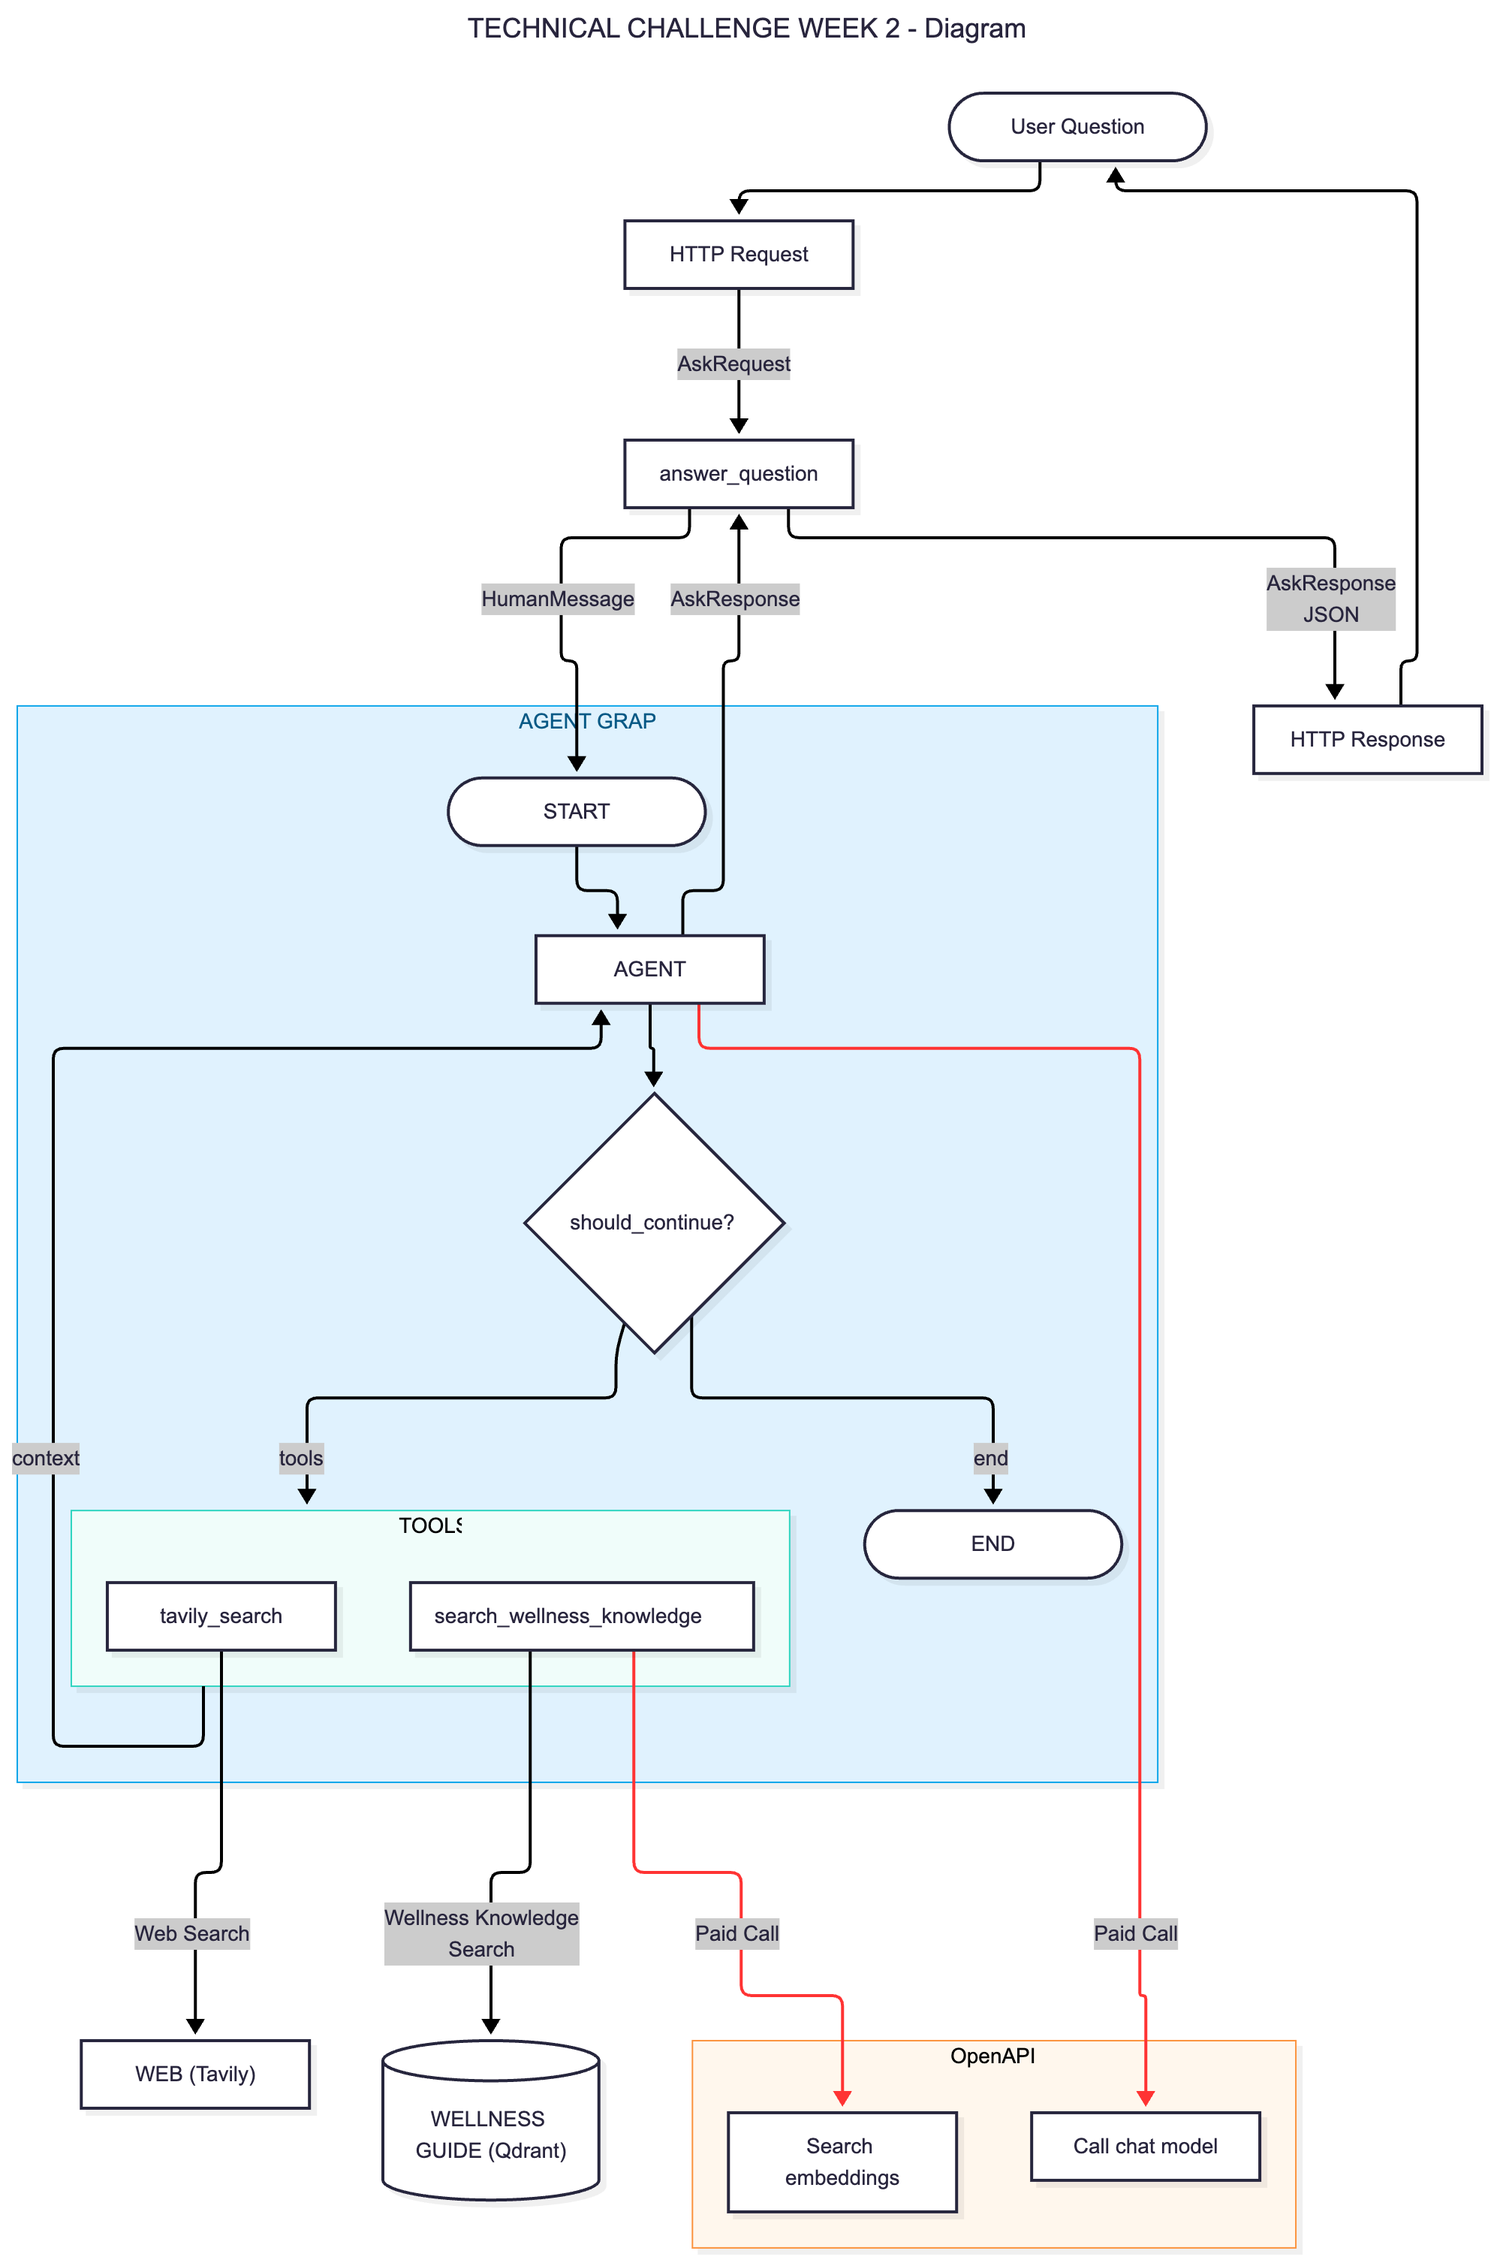
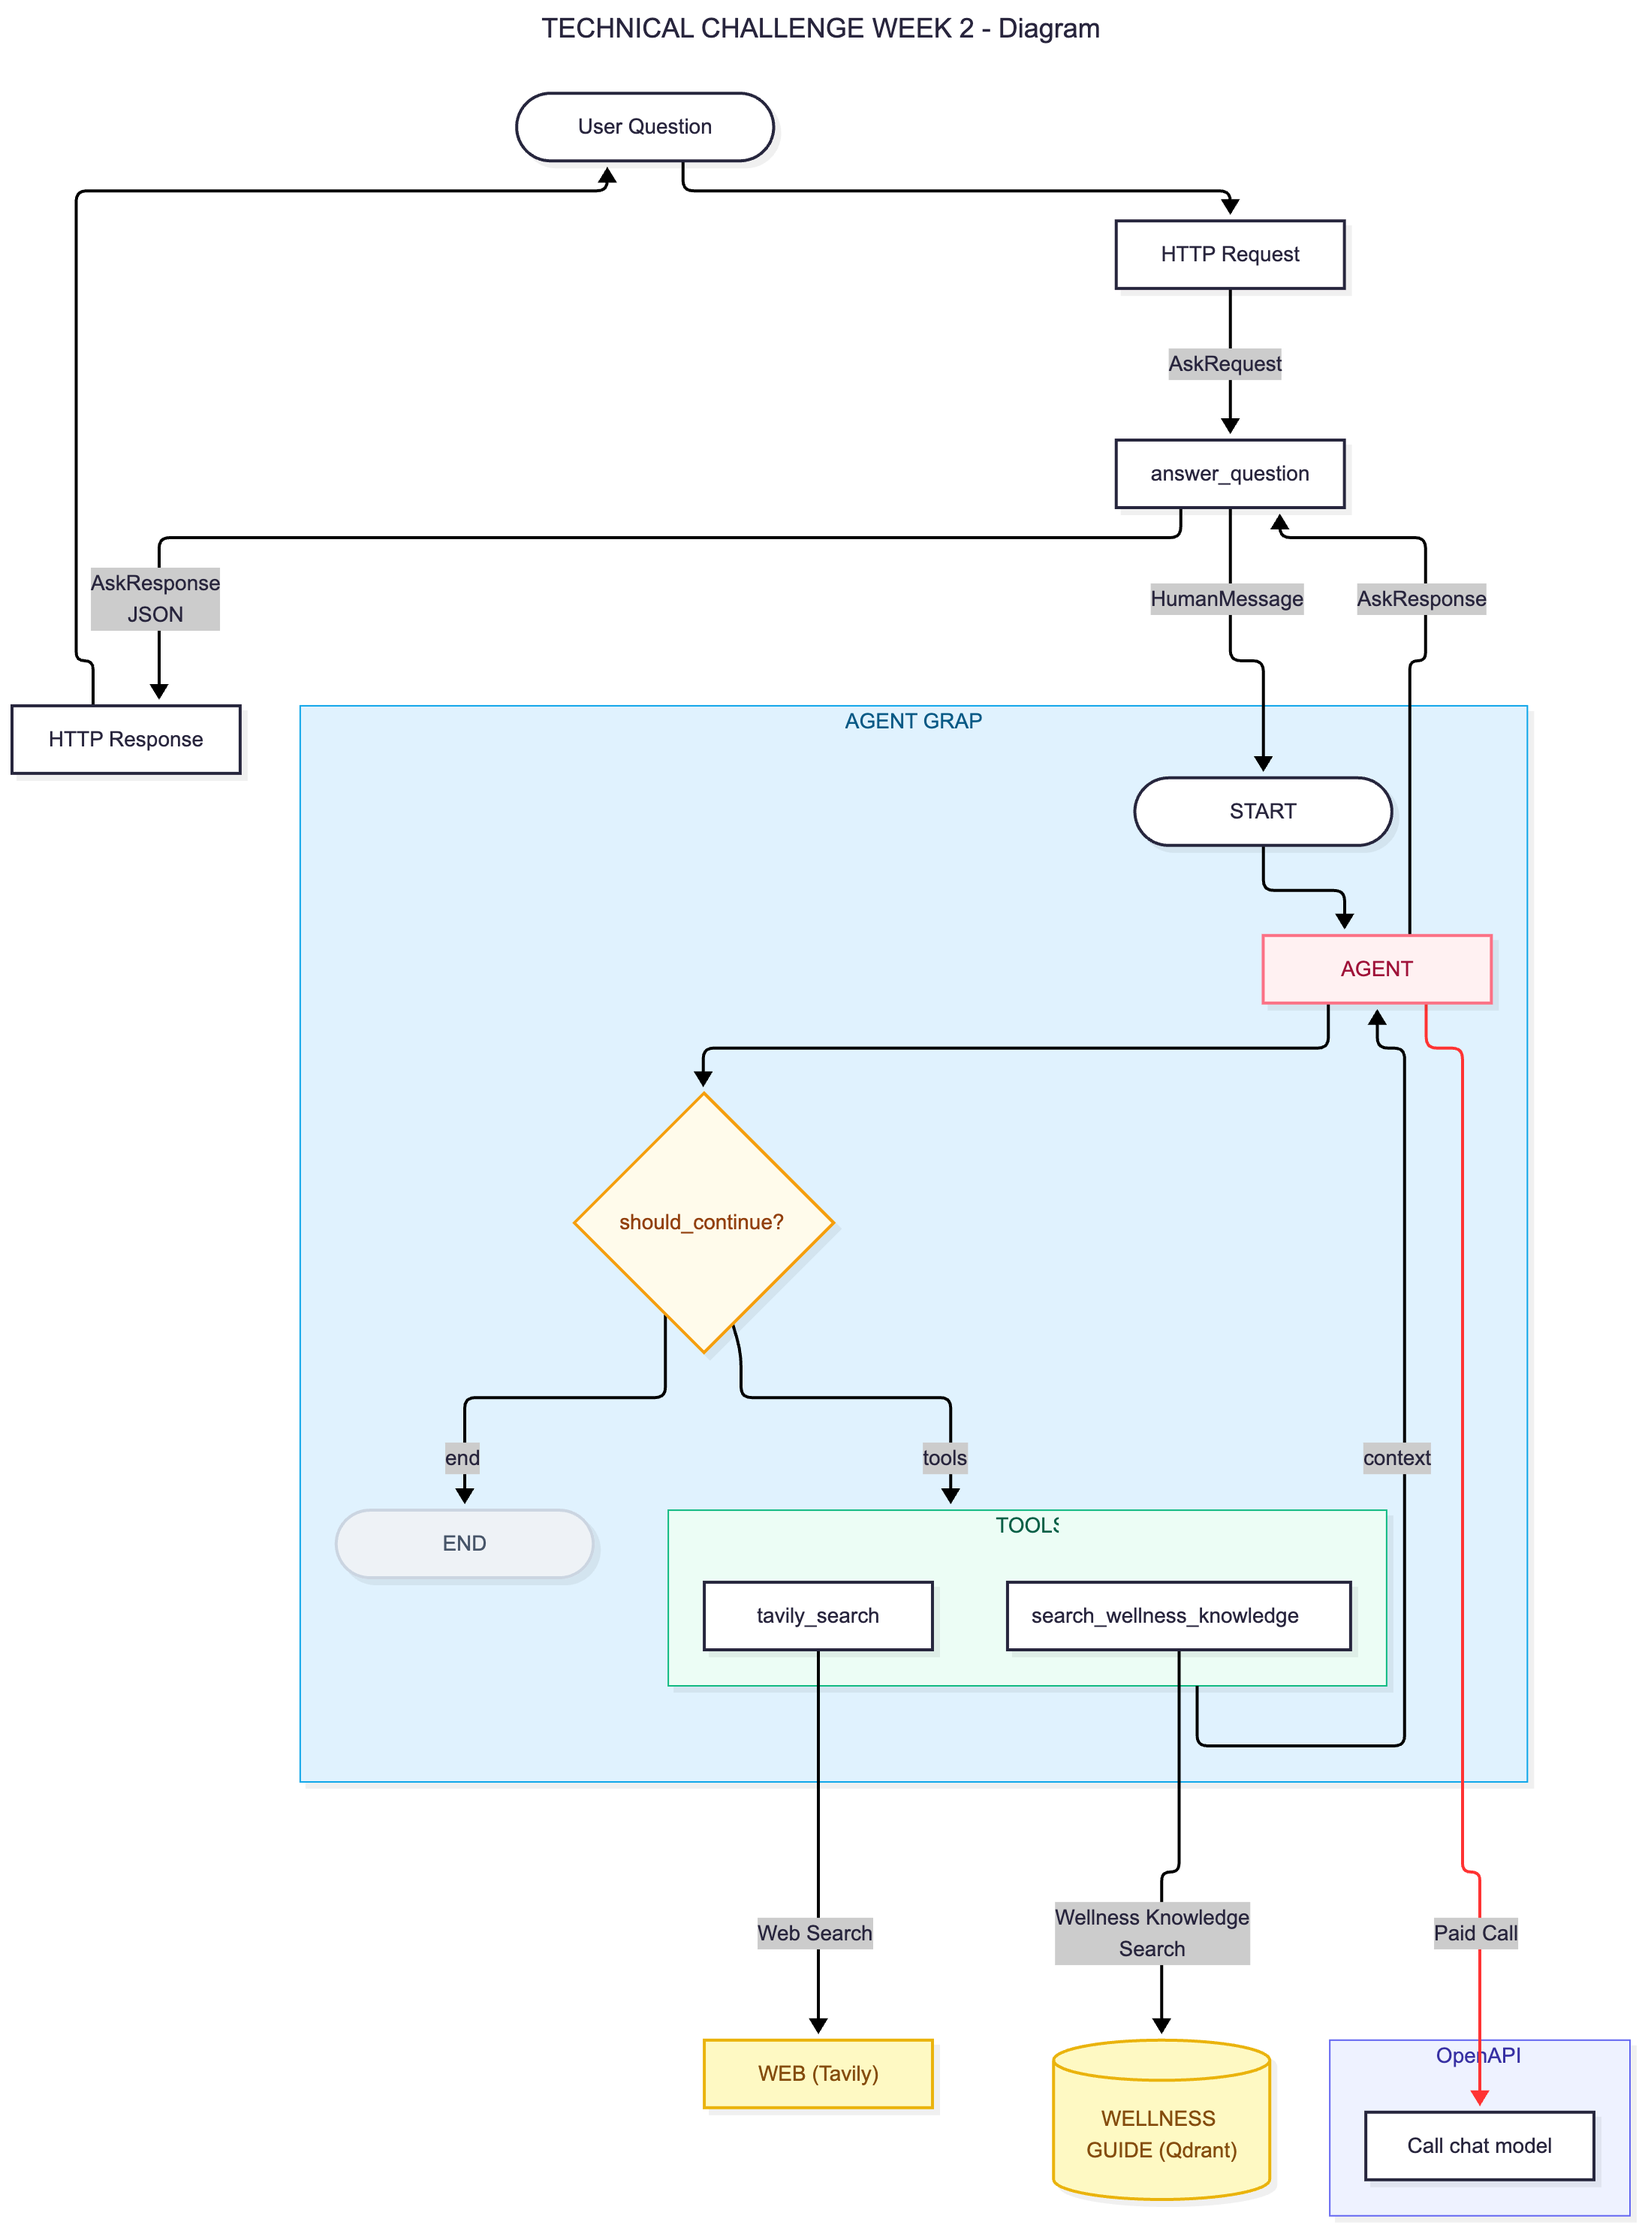
Week 2 Technical Challenge - Updates to diagram and DECISIONS.md

diff --git a/00_Technical_Challenges/Week 2/agent_app/service.py b/00_Technical_Challenges/Week 2/agent_app/service.py
@@ -87,7 +87,7 @@ def answer_question(request: AskRequest, agent: Runnable) -> AskResponse:
     try:
         result = agent.invoke(
             {"messages": [HumanMessage(content=request.question)]},
-            config={"recursion_limit": 10})
+            config={"recursion_limit": 8})
 
         last_message = result["messages"][-1].content or ""
         

diff --git a/00_Technical_Challenges/Week 2/agent_app/tools.py b/00_Technical_Challenges/Week 2/agent_app/tools.py
@@ -89,9 +89,7 @@ def make_search_tool(retriever: BaseRetriever) -> BaseTool:
             
         """
 
-        vector_store = retriever.vectorstore
-
-        docs = vector_store.similarity_search_with_score(
+        docs = retriever.vectorstore.similarity_search_with_score(
             query,
             score_threshold=0.3,
             k=3

diff --git a/00_Technical_Challenges/Week 2/DECISIONS.md b/00_Technical_Challenges/Week 2/DECISIONS.md
@@ -7,16 +7,15 @@ Week 5 this file explains the decisions you made across the whole bootcamp.
 
 **What I changed**
 
-> One sentence. Your Step 4 augmentation (loop cap, scope router, structured output,
-> streaming, memory, reranking, …).
+> Real similarity scores (similarity_search_with_score).
 
 **Why**
 
-> Which of your 10 failures it targeted, and the before/after — not a mood, a measurement.
+> For Confidence Filtering (Hallucination Prevention) so the weak matches are discardes based on a certain threshold before passing to LLM.
 
 **What would change my mind**
 
-> The condition under which you would undo it.
+> When granular visibility is not needed on how well each result actually matched the query. Or a lose requirement of not needing strong matching.
 
 ---
 
@@ -25,4 +24,5 @@ Week 5 this file explains the decisions you made across the whole bootcamp.
 **The call:** the API contract in `schemas.py` is Pydantic, not a `@dataclass` like Week 1's `Hit`.
 
 > In one or two lines: what does Pydantic give a FastAPI app that a dataclass does not, and
-> where (if anywhere) would a plain dataclass still have been the right tool here?
+> where (if anywhere) would a plain dataclass still have been the right tool here?<br>
+> ANSWER: Pydantic enforces types at runtime and has built in validation on data

diff --git a/00_Technical_Challenges/Week 2/DIAGRAM-MERMAID.md b/00_Technical_Challenges/Week 2/DIAGRAM-MERMAID.md
@@ -17,7 +17,6 @@ flowchart TB
     end
 
     subgraph OPENAPI["OpenAPI"]
-        EMBEDDINGS_LLM["Search embeddings"]
         LLM["Call chat model"]
     end
 
@@ -30,14 +29,13 @@ flowchart TB
     tavily_search -- "Web Search" --> web["WEB (Tavily)"]
 
     agent -- "Paid Call" --> LLM
-    search_wellness_knowledge -- "Paid Call" --> EMBEDDINGS_LLM
 
     agent -- "AskResponse" --> answer_question
     answer_question -- "AskResponse <br>JSON" --> http_response["HTTP Response"]
     http_response["HTTP Response"] --> user
 
     linkStyle 10 stroke:#ff3333,stroke-width:2px;
-    linkStyle 11 stroke:#ff3333,stroke-width:2px;
+    %% linkStyle 11 stroke:#ff3333,stroke-width:2px;
 
     classDef terminal fill:#eef2f6,stroke:#cbd5e1,color:#475569
     classDef agentNode fill:#fff1f2,stroke:#fb7185,color:#9f1239
@@ -54,5 +52,4 @@ flowchart TB
     class decision decisionNode
     class tools,TOOLS toolNode
     class guide,web source
-
 ```
